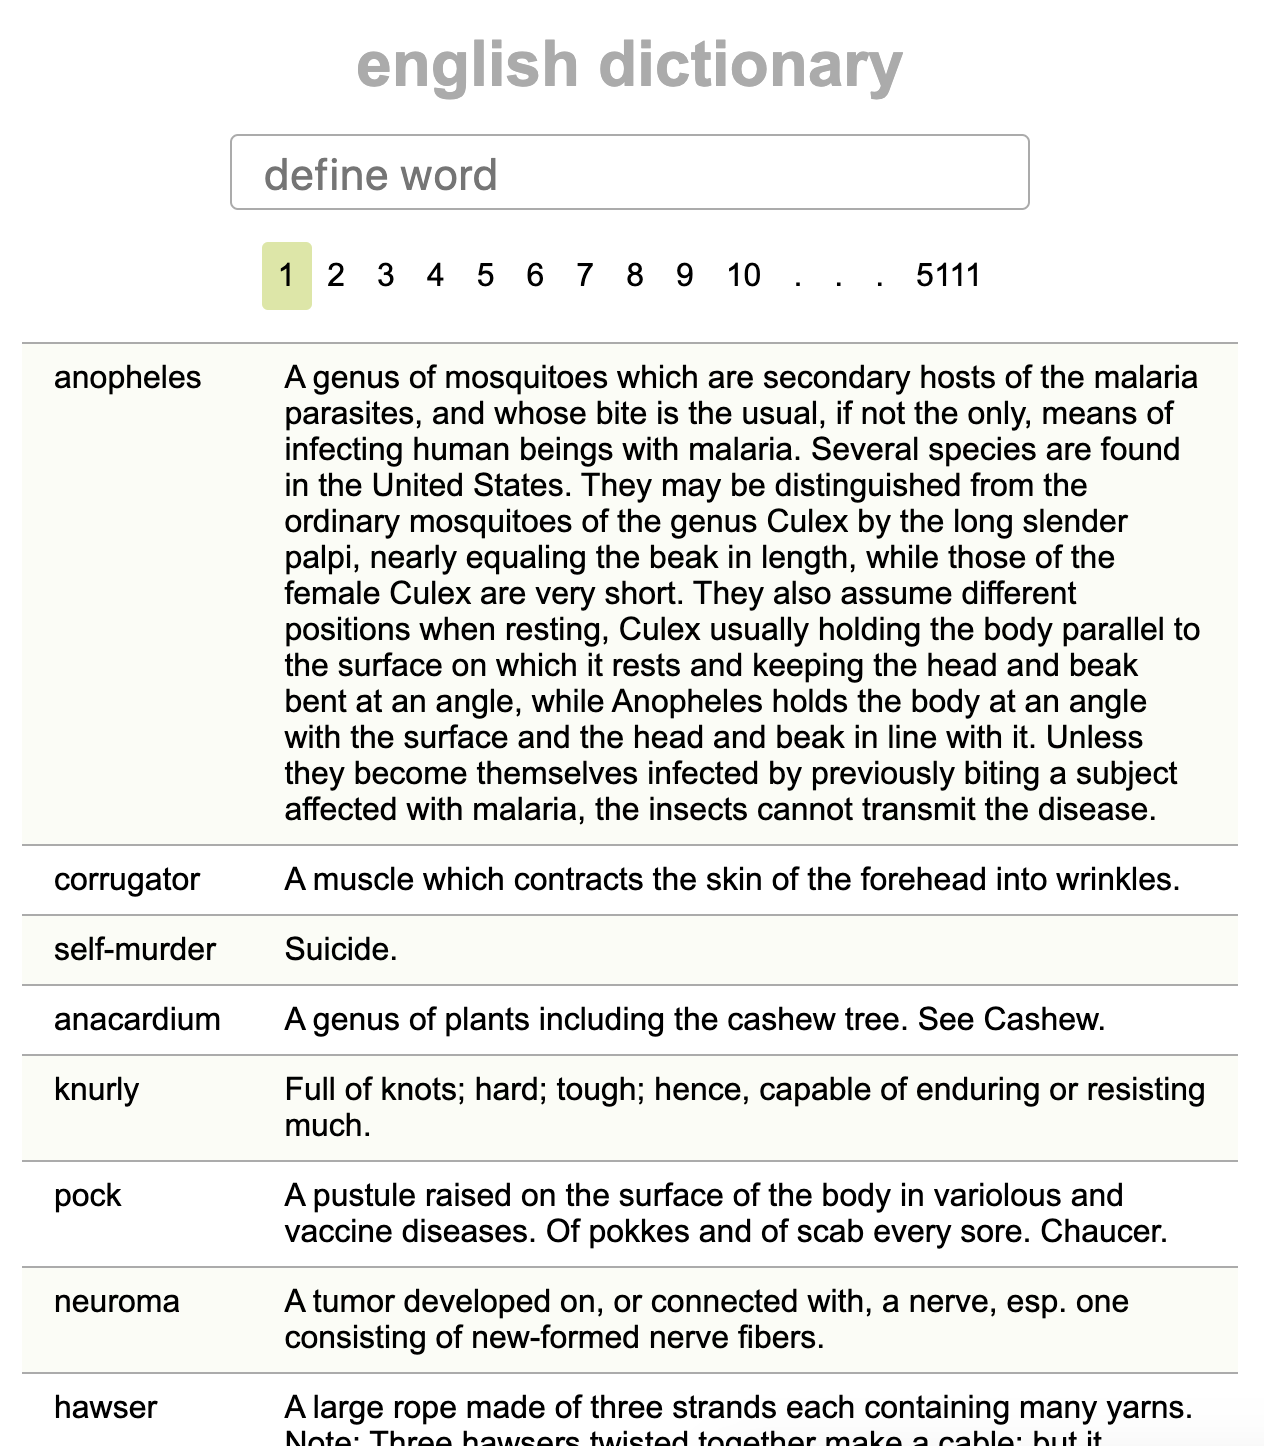
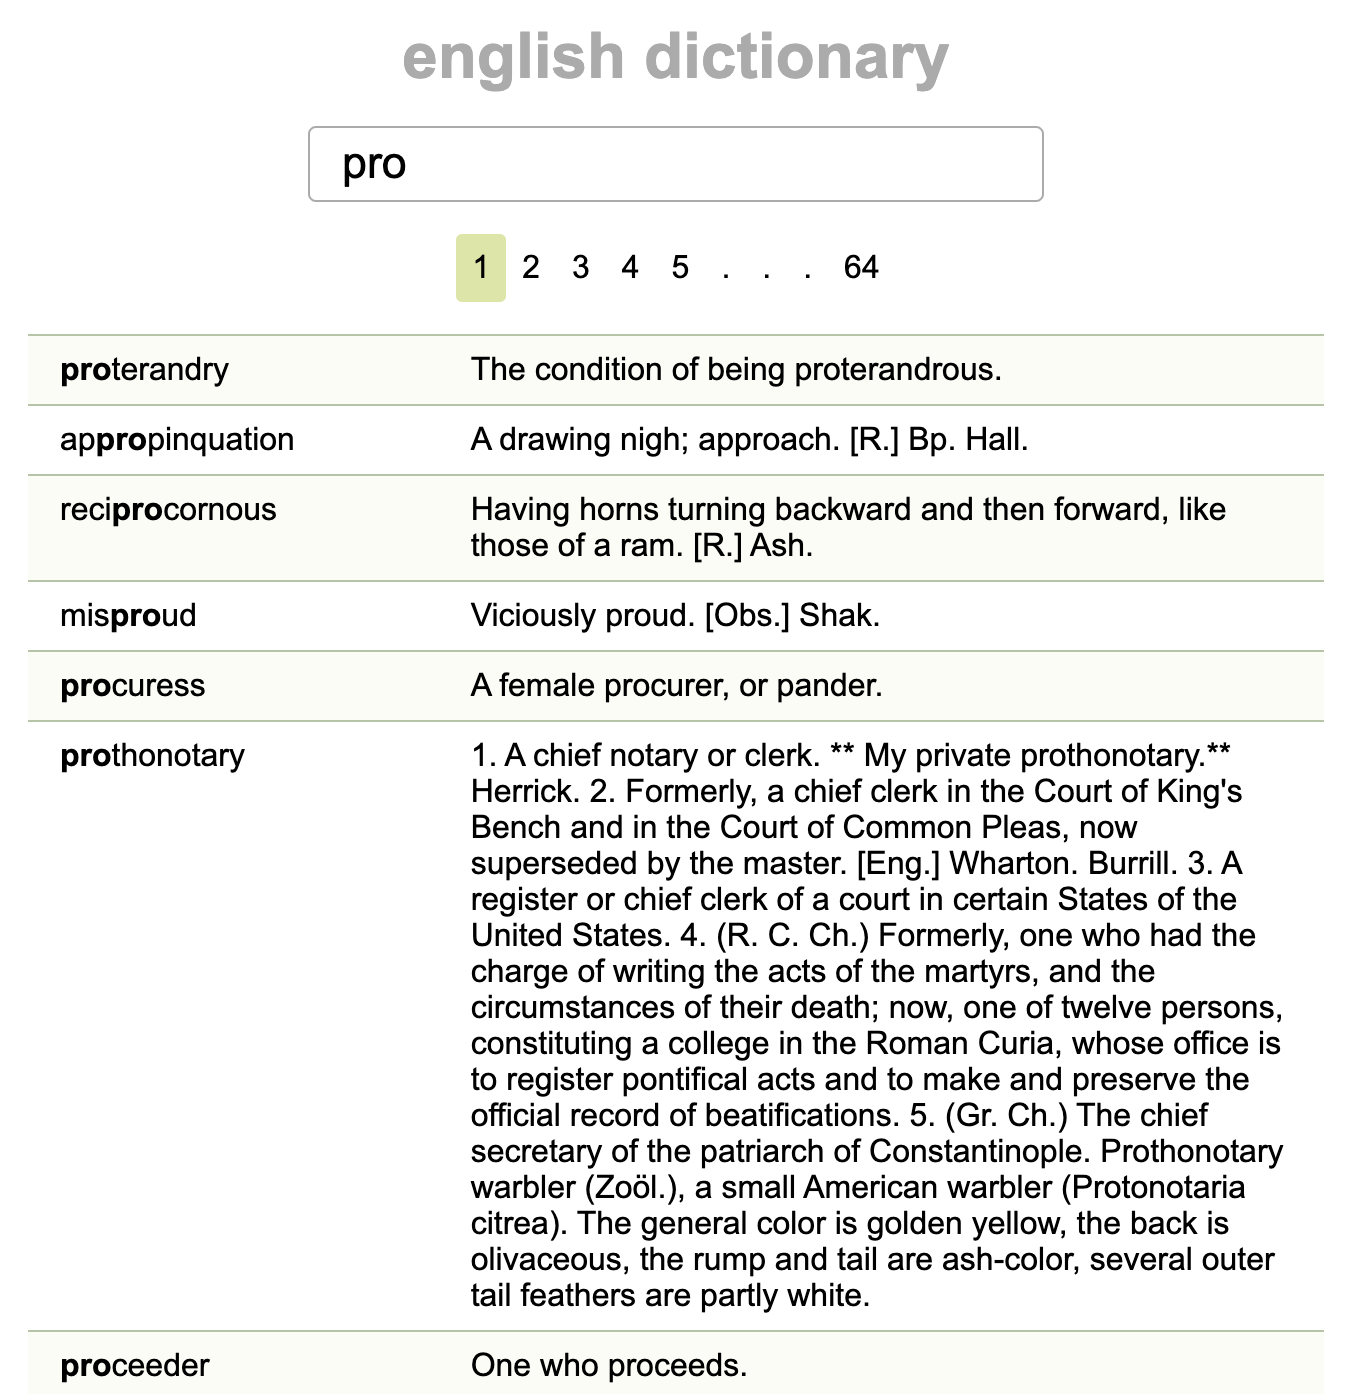
pagination, styling

diff --git a/www/index.html b/www/index.html
@@ -2,41 +2,63 @@
 <html lang="en">
 
 <head>
-  <meta charset="UTF-8">
-  <meta name="viewport" content="width=device-width, initial-scale=1.0">
-  <meta http-equiv="X-UA-Compatible" content="ie=edge">
-  <title>english dictionary of words</title>
-  <script src="https://unpkg.com/axios/dist/axios.min.js"></script>
-  <script src="https://cdn.jsdelivr.net/npm/vue/dist/vue.js"></script>
-  <link rel="stylesheet" href="./styles/app.css">
+    <meta charset="UTF-8">
+    <meta name="viewport" content="width=device-width, initial-scale=1.0">
+    <meta http-equiv="X-UA-Compatible" content="ie=edge">
+    <title>english dictionary of words</title>
+    <script src="https://unpkg.com/axios/dist/axios.min.js"></script>
+    <script src="https://cdn.jsdelivr.net/npm/vue/dist/vue.js"></script>
+    <link rel="stylesheet" href="./styles/app.css">
 </head>
 
 <body>
-  <div id="app">
-    <h1>{{title}}</h1>
-    <div class="search-form">
-      <input type="text" placeholder="define word" @keyup="search" v-model="word">
-    </div>
-    <div>
-      <div class="pagination">
-        <div v-for="page in pagination.pages" class="page-number" :class="currentPage === page && 'current-page'"
-          @click="goto(page)">
-          {{page}}
+    <div id="app">
+        <h1>{{title}}</h1>
+        <div class="search-form">
+            <input type="text" placeholder="define word" @keyup="search" v-model="word">
         </div>
-        <div class="page-number" @click="goto(lastPage)">{{lastPage}}</div>
-      </div>
-      <div v-if="lastPage < 10 && lastPage > 1">
-        <div v-for="page in lastPage" @click="goto(page)">{{page}}</div>
-      </div>
-      <ul>
-        <li v-for="word in words" :key="word.id">
-          <div class="word">{{word.word}}</div>
-          <div class="word-definition">{{word.definition}}</div>
-        </li>
-      </ul>
+        <div >
+            <div class="pagination" v-if="pagination.pages.length > 1">
+                <div v-for="page in pagination.pages" class="page-number cursor-pointer"
+                    :class="pagination.currentPage === page && 'current-page'" @click="goto(page)">
+                    {{page}}
+                </div>
+                <div v-if="pagination.endPage < pagination.totalPages" style="display: flex;">
+                    <div class="page-number">.</div>
+                    <div class="page-number">.</div>
+                    <div class="page-number">.</div>
+                    <div class="page-number cursor-pointer"
+                        :class="pagination.currentPage === pagination.totalPages && 'current-page'" @click="goto(pagination.totalPages)"
+                    >
+                        {{pagination.totalPages}}
+                    </div>
+                </div>
+            </div>
+            <ul>
+                <li v-for="word in words" :key="word.id">
+                    <div class="word">{{word.word}}</div>
+                    <div class="word-definition">{{word.definition}}</div>
+                </li>
+            </ul>
+            <div class="pagination" v-if="pagination.pages.length > 1">
+                <div v-for="page in pagination.pages" class="page-number cursor-pointer"
+                    :class="pagination.currentPage === page && 'current-page'" @click="goto(page)">
+                    {{page}}
+                </div>
+                <div v-if="pagination.endPage < pagination.totalPages" style="display: flex;">
+                    <div class="page-number">.</div>
+                    <div class="page-number">.</div>
+                    <div class="page-number">.</div>
+                    <div class="page-number cursor-pointer"
+                        :class="pagination.currentPage === pagination.totalPages && 'current-page'" @click="goto(pagination.totalPages)"
+                    >
+                        {{pagination.totalPages}}
+                    </div>
+                </div>
+            </div>
+        </div>
     </div>
-  </div>
-  <script src="./app/app.js"></script>
+    <script src="./app/app.js"></script>
 </body>
 
 </html>

diff --git a/www/app/app.js b/www/app/app.js
@@ -6,8 +6,6 @@ const app = new Vue({
             title: 'english dictionary',
             totalResults: 0,
             word: '',
-            currentPage: 1,
-            lastPage: -1,
             words: [],
             resultsPerPage: 20,
             pagination: {
@@ -19,7 +17,7 @@ const app = new Vue({
                 endPage: 1,
                 startIndex: 0,
                 endIndex: 0,
-                pages: [1, 2]
+                pages: [1]
             }
         }
     },
@@ -27,31 +25,33 @@ const app = new Vue({
         this.query('', this.resultsPerPage);
     },
     methods: {
+
         query: function (word, resultsPerPage, page) {
             axios.get(`/define?word=${word}&resultsPerPage=${resultsPerPage}&page=${page}`)
                 .then(response => {
-                    this.currentPage = response.data.pagination.currentPage;
-                    this.lastPage = response.data.pagination.lastPage;
                     this.words = response.data.words;
                     Object.assign(this.pagination, response.data.pagination);
                 })
                 .then(()=> this.highlight(word));
         },
+
         search: function () {
             clearTimeout(debouncer);
             debouncer = setTimeout(() => {
                 this.query(this.word);
-            }, 666);
+            }, 250);
         },
+
         goto: function (page) {
             this.query(this.word, this.resultsPerPage, page);
         },
+
         highlight: function (text) {
             const words = document.querySelectorAll('.word');
             if(words) {
                 words.forEach(word => {
                     let wordInnerText = word.innerHTML;
-                    const wrapperStart = `<span style="font-weight: bold;">`;
+                    const wrapperStart = `<span class="highlight">`;
                     const wrapperEnd = `</span>`;
                     wordInnerText = wordInnerText.replace(wrapperStart, '');
                     wordInnerText = wordInnerText.replace(wrapperEnd, '');
@@ -65,15 +65,6 @@ const app = new Vue({
                 });
             }
         },
-    },
-    computed: {
-        // pages: function () {
-        //     let range = (a, b) => a > b ? range(b, a).reverse() : (a === b ? [a] : range(a, b - 1).concat(b));
-        //     if (this.currentPage > -1) {
-        //         return range(this.currentPage, (this.lastPage >= this.currentPage + 9) ? this.currentPage + 9 : this.lastPage);
-        //     } else {
-        //         return [];
-        //     }
-        // }
+
     }
 })

diff --git a/www/styles/app.scss b/www/styles/app.scss
@@ -1,0 +1,74 @@
+* {
+    margin: 0;
+    padding: 0;
+    box-sizing: border-box;
+}
+
+body {
+    font-family: Arial, Helvetica, sans-serif;
+}
+
+h1 {
+    max-width: 400px;
+    margin: 1rem auto;
+    padding: 0;
+    text-align: center;
+    color: #ababab;
+}
+
+.search-form {
+    margin: 0 auto;
+    max-width: 400px;
+    input {
+        width: calc(100% - 2rem);
+        height: 38px;
+        border-radius: 4px;
+        border: 1px solid #ababab;
+        font-size: 1.4rem;
+        padding: 0 1rem;
+        margin: 0 1rem;
+    }
+}
+
+.pagination {
+    display: flex;
+    justify-content: center;
+    align-items: center;
+    margin: 1rem auto;
+    .page-number {
+        padding: 0.5rem;
+    }
+    .current-page {
+        border-radius: 3px;
+        background-color: #dde7a5;
+    }
+}
+
+ul {
+    list-style-type: none;
+    margin: 1rem;
+    li {
+        padding: 0.5rem 1rem;
+        display: flex;
+        border-top: 1px solid #b7c4a7;
+        .word {
+            width: 50%;
+            @media(min-width: 900px) {
+                width: 20%;
+            }
+        }
+        .word-definition {
+            width: 100%;
+        }
+    }
+    li:nth-child(odd) {
+        background-color: #fbfcf6;
+    }
+}
+
+.highlight {
+    font-weight: bold;
+}
+.cursor-pointer {
+    cursor: pointer;
+}

diff --git a/www/styles/app.css b/www/styles/app.css
@@ -22,12 +22,13 @@ h1 {
 }
 
 .search-form input {
-  width: 100%;
+  width: calc(100% - 2rem);
   height: 38px;
   border-radius: 4px;
   border: 1px solid #ababab;
   font-size: 1.4rem;
   padding: 0 1rem;
+  margin: 0 1rem;
 }
 
 .pagination {
@@ -37,12 +38,11 @@ h1 {
   margin: 1rem auto;
 }
 
-.page-number {
+.pagination .page-number {
   padding: 0.5rem;
-  cursor: pointer;
 }
 
-.current-page {
+.pagination .current-page {
   border-radius: 3px;
   background-color: #dde7a5;
 }
@@ -52,27 +52,34 @@ ul {
   margin: 1rem;
 }
 
-li {
+ul li {
   padding: 0.5rem 1rem;
   display: flex;
+  border-top: 1px solid #b7c4a7;
 }
 
-li:first-child {
-  border-top: 1px solid #ababab;
+ul li .word {
+  width: 50%;
 }
 
-li:not(:last-child) {
-  border-bottom: 1px solid #ababab;
+@media (min-width: 900px) {
+  ul li .word {
+    width: 20%;
+  }
 }
 
-li:nth-child(odd) {
+ul li .word-definition {
+  width: 100%;
+}
+
+ul li:nth-child(odd) {
   background-color: #fbfcf6;
 }
 
-.word {
-  width: 20%;
+.highlight {
+  font-weight: bold;
 }
 
-.word-definition {
-  width: 80%;
+.cursor-pointer {
+  cursor: pointer;
 }
